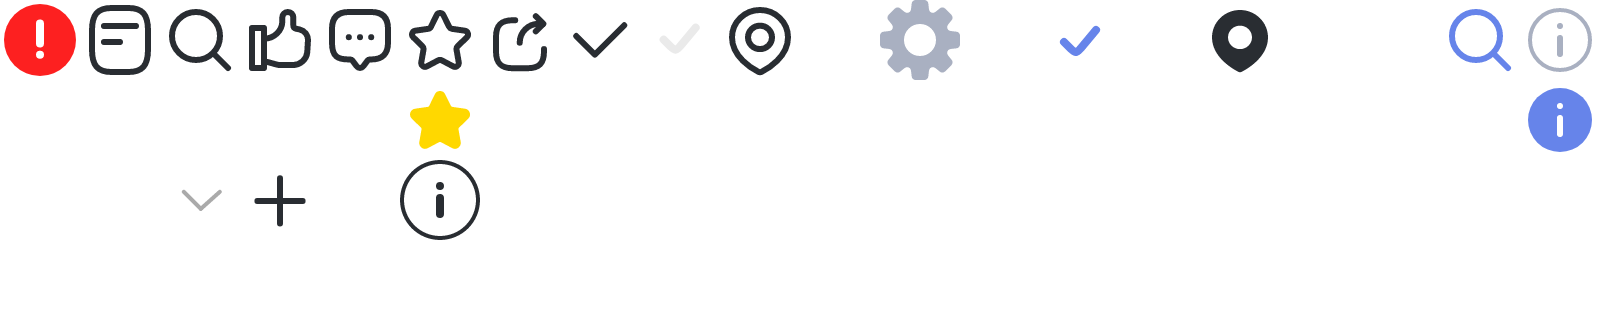
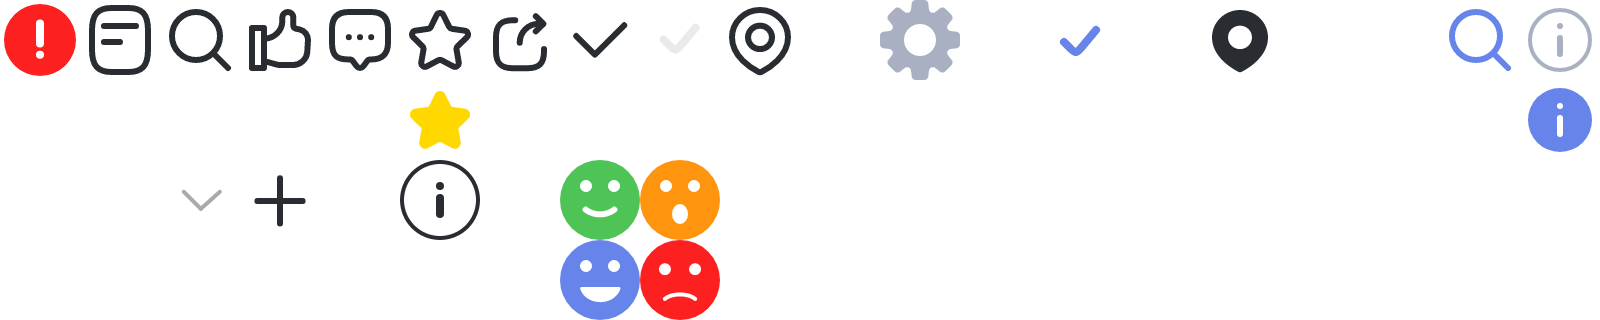
UI-SJN-35-001L, UI-SJN-35-002L 등록

Changed region(s): [[0.3438, 0.5, 0.4688, 1.0]]

diff --git a/html/map/UI-SJN-35-002L.html b/html/map/UI-SJN-35-002L.html
@@ -8,164 +8,8 @@
 <body>
 <div id="root">
 	<div class="container">
-		<!-- 공통: 서브 헤더 -->
-		<script src="../include/header_sub.js"></script>
-		<!-- //공통: 서브 헤더 -->
-
-		<!-- 본문 -->
-		<main class="contents map"> <!-- [생활정보 Class] map-->
-			<h2 class="visible"><div class="headerClone">미세먼지</div></h2> <!-- [헤더에 넣어줄 제목] -->
-			
-			<div class="mapWrap">
-				<div class="mapArea">
-					<!-- 기타 아이콘들 -->
-					<div class="mapIcons"> <!-- 주유소 콘텐츠 otherPosition 추가 -->
-						<button type="button" class="btnPin"><i>핀</i></button>
-						<button type="button" class="btnMapSearch"><i></i>현 지도에서 검색</button>
-
-						<!-- 마커 -->
-						<div class="markerMy" style="left: 20rem; top: 25rem;"> <!-- rem 단위로 넣어야 합니다. 10px = 1rem  -->
-							<div><span></span></div>
-						</div>
-						<!-- //마커 -->
-
-						<!-- 미세먼지 -->
-						<div class="fineDust">
-							<button type="button" class="fineDustIco good" style="left: 5rem; top: 15rem;" title="미세먼지 좋음" onclick="layerPopup.open('layerFineDust');"><i class="split24 dust"></i> <b>75</b><b>66</b></button>
-							<button type="button" class="fineDustIco usually" style="left: 15rem; top: 15rem;" title="미세먼지 보통" onclick="layerPopup.open('layerFineDust');"><i class="split24 dust"></i> <b>75</b><b>66</b></button>
-							<button type="button" class="fineDustIco bad" style="left: 15rem; top: 20rem;" title="미세먼지 나쁨" onclick="layerPopup.open('layerFineDust');"><i class="split24 dust"></i> <b>75</b><b>66</b></button>
-							<button type="button" class="fineDustIco veryBad" style="left: 25rem; top: 20rem;" title="미세먼지 매우나쁨" onclick="layerPopup.open('layerFineDust');"><i class="split24 dust"></i> <b>75</b><b>66</b></button>
-							<button type="button" class="fineDustIco good" style="left: 5rem; top: 25rem;" title="미세먼지 좋음" onclick="layerPopup.open('layerFineDust');"><i class="split24 government"></i> <b>75</b><b>66</b></button>
-							<button type="button" class="fineDustIco usually" style="left: 15rem; top: 25rem;" title="미세먼지 보통" onclick="layerPopup.open('layerFineDust');"><i class="split24 government"></i> <b>75</b><b>66</b></button>
-							<button type="button" class="fineDustIco bad" style="left: 15rem; top: 30rem;" title="미세먼지 나쁨" onclick="layerPopup.open('layerFineDust');"><i class="split24 government"></i> <b>75</b><b>66</b></button>
-							<button type="button" class="fineDustIco veryBad" style="left: 25rem; top: 30rem;" title="미세먼지 매우나쁨" onclick="layerPopup.open('layerFineDust');"><i class="split24 government"></i> <b>75</b><b>66</b></button>
-						</div>
-						<!-- //미세먼지 -->
-
-						<div class="btnView">
-							<button type="button" class="mapView" onclick="mapInfo.active('close');"><i></i>지도보기</button>
-							<button type="button" class="listView" onclick="mapInfo.click('sub');"><i></i>목록보기</button>
-						</div>
-
-						<div class="location">
-							<button type="button" class="myLocation"><i>현재위치</i></button> <!-- 활성화시 버튼에 active 추가 -->
-							<div class="scaleBtn">
-								<button type="button" class="scaleUp"><i>확대</i></button>
-								<button type="button" class="scaleDown"><i>축소</i></button>
-							</div>
-						</div>
-					</div>
-					<!-- //기타 아이콘들 -->
-					
-					<!-- 정보 영역 -->
-					<div class="mapInfoLayer default">
-						<div class="mapIHead short2">
-							<button type="button" class="btnMapInfo">정보영역</button>
-
-							<div class="location">
-								<i class="split20"></i>세종특별자치시 나성동
-							</div>
-						</div>
-						<div class="dustArea">
-							<section>
-								<ul class="fineDustList">
-									<li class="national">
-										<div class="title">
-											<i class="split24 logo"></i>
-											<h3>아름동 측정소 기준</h3>
-											<button type="button" class="tooltipBtn legend" title="도움말 닫힘" onclick="tooltip.show('tooltip1', 'bottom');"><i class="split20">국가망 관측소에 대한 간략 안내
-											</i></button>
-										</div>
-										<div class="infomation">
-											<span>미세먼지<b class="good">52 좋음</b></span>
-											<span>초미세먼지<b class="usually">52 보통</b></span>
-										</div>
-										<div class="offeror">
-											<span>제공 : 에어코리아 2022-01-20 12:00</span>
-										</div>
-									</li>
-									<li class="national">
-										<div class="title">
-											<i class="split24 logo"></i>
-											<h3>아름동 측정소 기준</h3>
-											<button type="button" class="tooltipBtn legend" title="도움말 닫힘" onclick="tooltip.show('tooltip1', 'bottom');"><i class="split20">국가망 관측소에 대한 간략 안내
-											</i></button>
-										</div>
-										<div class="infomation">
-											<span>미세먼지<b class="good">52 좋음</b></span>
-											<span>초미세먼지<b class="usually">52 보통</b></span>
-										</div>
-										<div class="offeror">
-											<span>제공 : 에어코리아 2022-01-20 12:00</span>
-										</div>
-									</li>
-									<li class="simple">
-										<div class="title">
-											<h3>간이형 측정기 15</h3>
-											<button type="button" class="tooltipBtn legend" title="도움말 닫힘" onclick="tooltip.show('tooltip2', 'bottom');"><i class="split20">국가망 관측소에 대한 간략 안내
-											</i></button>
-										</div>
-										<div class="address">
-											<span>보듬6로 18</span>
-										</div>
-										<div class="infomation">
-											<span>미세먼지<b class="bad">52 나쁨</b></span>
-											<span>초미세먼지<b class="veryBad">52 매우나쁨</b></span>
-										</div>
-									</li>
-									<li class="simple">
-										<div class="title">
-											<h3>간이형 측정기 15</h3>
-											<button type="button" class="tooltipBtn legend" title="도움말 닫힘" onclick="tooltip.show('tooltip2', 'top');"><i class="split20">국가망 관측소에 대한 간략 안내
-											</i></button>
-										</div>
-										<div class="address">
-											<span>보듬6로 18</span>
-										</div>
-										<div class="infomation">
-											<span>미세먼지<b class="bad">52 나쁨</b></span>
-											<span>초미세먼지<b class="veryBad">52 매우나쁨</b></span>
-										</div>
-									</li>
-								</ul>
-							</section>
-						</div>
-					</div>
-					<script>
-						mapInfo.click('sub');
-					</script>
-					<!-- //정보 영역 -->
-
-					<div class="mapBg"></div> <!-- map 이미지 -->
-				</div>
-			</div>
-		</main>
-		<!-- //본문 -->
 
 		<!-- 툴팁 -->
-		<div id="tooltip1" class="boxTooltipLayer" tabindex="0">
-			<div class="boxTooltipBody">
-				<div class="paragraphGroup">
-					<p>
-						아름동, 한솔동, 보람동, 신흥동, 부강면 각 측정소의 「대기환경보전법」에 따른 측정망의 자료를 기반합니다.<br />
-						데이터는 측정소 현지 사정이나 데이터의 수신상태에 따라 미수신 될 수 있습니다.
-					</p>
-				</div>
-				<button type="button" class="btnClose"><i>닫기</i></button>
-			</div>
-		</div>
-
-		<div id="tooltip2" class="boxTooltipLayer" tabindex="0">
-			<div class="boxTooltipBody">
-				<div class="paragraphGroup">
-					<p>
-						간이형 측정기(성능인증 1등급)를 통해 측정된 자료이며, 「대기환경보전법」에 따른 측정망의 자료와 다를 수 있습니다.
-					</p>
-				</div>
-				<button type="button" class="btnClose"><i>닫기</i></button>
-			</div>
-		</div>
-
 		<div id="tooltip3" class="dustTooltipLayer" tabindex="0">
 			<div class="legendTooltipBody">
 				<div>
@@ -379,7 +223,11 @@
 				</div>
 			</div>
 		</div>
+		<script>
+			layerPopup.open('layerFineDust');
+		</script>
 		<!-- //레이어 -->
+		
 	</div>
 </div>
 </body>

diff --git a/public/styles/globals.css b/public/styles/globals.css
@@ -156,7 +156,7 @@ table td { vertical-align: middle;}
 .ellipsis { overflow:hidden; text-overflow:ellipsis; white-space:nowrap;}
 .lineBreake { overflow: hidden; display: -webkit-box; text-overflow: ellipsis; -webkit-line-clamp: 2; -webkit-box-orient: vertical;}
 .visible { display: none;}
-.invisible { position: relative; z-index: -1; display: inline-block; overflow: hidden; height: 1px; width: 1px; border: 0; clip: rect(1px, 1px, 1px, 1px); clip-path: inset(50%); word-break: initial; word-wrap: initial;}
+.invisible { position: absolute; z-index: -1; display: inline-block; overflow: hidden; height: 1px; width: 1px; border: 0; clip: rect(1px, 1px, 1px, 1px); clip-path: inset(50%); word-break: initial; word-wrap: initial;}
 .ls0 { letter-spacing: 0;}
 
 
@@ -238,6 +238,23 @@ table td { vertical-align: middle;}
 .legendTooltipLayer .legendTooltipBody .numerical li i.veryHighness { background-color: #FD7802;}
 .legendTooltipLayer .legendTooltipBody .numerical li span { display: block; margin-top: 0.8rem; font-size: 1.4rem; font-weight: 700; color: #aaa;}
 .legendTooltipLayer.show { display: block;}
+
+.dustTooltipLayer { display: none; position: absolute; left: 0; top: 0; z-index: 301; width: 100%; padding: 0 1.2rem;}
+.dustTooltipLayer .legendTooltipBody { position: relative; padding: 1.2rem; background-color: #fff; border: 1px solid #6684EA;}
+.dustTooltipLayer .btnClose { position: absolute; right: 1.2rem; top: 2.2rem; width: 2.4rem; height: 2.4rem;}
+.dustTooltipLayer .btnClose i { display: block; width: 2.4rem; height: 2.4rem; text-indent: -9999rem; background: url(../image/common/split_48.png) no-repeat -14.4rem 0/48rem 14.4rem;}
+.dustTooltipLayer .legendTooltipBody h4 { display: flex; align-items: center; height: 4.8rem; font-size: 1.8rem;}
+.dustTooltipLayer .legendTooltipBody p { margin-top: 0.8rem; color: #555; line-height: 2rem;}
+.dustTooltipLayer .legendTooltipBody .numerical { display: flex; margin-top: 2.4rem;}
+.dustTooltipLayer .legendTooltipBody .numerical li { flex: 1;}
+.dustTooltipLayer .legendTooltipBody .numerical li ~ li { margin-left: 0.4rem;}
+.dustTooltipLayer .legendTooltipBody .numerical li i { display: block; height: 0.4rem;}
+.dustTooltipLayer .legendTooltipBody .numerical li i.usually { background-color: #6684EA;}
+.dustTooltipLayer .legendTooltipBody .numerical li i.good { background-color: #4EC457;}
+.dustTooltipLayer .legendTooltipBody .numerical li i.bed { background-color: #FEA60E;}
+.dustTooltipLayer .legendTooltipBody .numerical li i.veryBed { background-color: #FD7802;}
+.dustTooltipLayer .legendTooltipBody .numerical li span { display: block; margin-top: 0.8rem; font-size: 1.4rem;}
+.dustTooltipLayer.show { display: block;}
 
 /* 하단고정 */
 .bottomFixed { position: relative; padding-bottom: 8rem;}
@@ -660,9 +677,38 @@ figure .label.green { background-color: rgba(78, 196, 87, 0.9);}
 /* UI-SJN-35-002L */
 .locationLayer .dustTransition { padding: 1.6rem 2rem 2.4rem;}
 .locationLayer .dustTransition .graph { margin-top: 1.6rem;}
-.locationLayer .pollutant { padding: 1.6rem 2rem 2.4rem;}
-.locationLayer .nationalData { padding: 1.6rem 2rem 2.4rem;}
-.locationLayer .forecast { padding: 1.6rem 2rem 2.4rem;}
+.locationLayer .pollutant { padding: 0.2rem 2rem 2.4rem;}
+.locationLayer .pollutant .ppmList li { display: flex; align-items: center; height: 4.8rem;}
+.locationLayer .pollutant .ppmList li .name { display: flex; align-items: center; justify-content: space-between; width: 10.5rem; height: 3.2rem; margin-right: 1.2rem; padding: 0 0.8rem; background-color: #F4F5F7; border-radius: 1.6rem;}
+.locationLayer .pollutant .ppmList li .name span { font-size: 1.4rem; color: #777; letter-spacing: -0.1em;}
+.locationLayer .pollutant .ppmList li .name .legend { display: flex; align-items: center; justify-content: center; width: 2rem; height: 2rem;}
+.locationLayer .pollutant .ppmList li .name .legend i { text-indent: -9999rem; background-color: #A9B0C1; background-position: -12rem -4rem; border-radius: 50%;}
+.locationLayer .pollutant .ppmList li .ppm { flex: 1;}
+.locationLayer .pollutant .ppmList li .ppm i { margin-top: -0.4rem; vertical-align: middle;}
+.locationLayer .pollutant .ppmList li .ppm.good i { background-position: -14rem -6rem;}
+.locationLayer .pollutant .ppmList li .ppm.good span { color: #6684EA;}
+.locationLayer .pollutant .ppmList li .ppm.usually i { background-position: -14rem -4rem;}
+.locationLayer .pollutant .ppmList li .ppm.usually span { color: #4EC457;}
+.locationLayer .pollutant .ppmList li .ppm.bad i { background-position: -16rem -4rem;}
+.locationLayer .pollutant .ppmList li .ppm.bad span { color: #FF940E;}
+.locationLayer .pollutant .ppmList li .ppm.veryBad i { background-position: -16rem -6rem;}
+.locationLayer .pollutant .ppmList li .ppm.veryBad span { color: #FD2020;}
+.locationLayer .nationalData { padding: 0.2rem 2rem 2.4rem;}
+.locationLayer .nationalData .dataList { display: flex; flex-wrap: wrap; margin: -0.2rem 0 0 -0.8rem;}
+.locationLayer .nationalData .dataList button { display: flex; align-items: center; justify-content: center; height: 3.6rem; margin: 0.8rem 0 0 0.8rem; padding: 0 1rem; font-size: 1.4rem; color: #777; border: 1px solid #EAEAEA; border-radius: 1.8rem;}
+.locationLayer .nationalData .dataList button.active { color: #fff; border-color: #6684EA; background-color: #6684EA;}
+.locationLayer .forecast { padding: 0.2rem 2rem 2.4rem;}
+.locationLayer .forecast .forecastList { border-top: 1px solid #EAEAEA;}
+.locationLayer .forecast .forecastList li { padding-bottom: 1.6rem; border-bottom: 1px solid #EAEAEA;}
+.locationLayer .forecast .forecastList li .head { display: flex; align-items: center; height: 4.8rem;}
+.locationLayer .forecast .forecastList li .head span { font-size: 1.4rem;}
+.locationLayer .forecast .forecastList li .head span.today { font-weight: 700;}
+.locationLayer .forecast .forecastList li .head h4 { margin: 0 0.4rem 0 0.8rem; font-size: 1.6rem;}
+.locationLayer .forecast .forecastList li .head b { font-size: 1.4rem;}
+.locationLayer .forecast .forecastList li .head b.usually { color: #4EC457;}
+.locationLayer .forecast .forecastList li .head b.good { color: #6684EA;}
+.locationLayer .forecast .forecastList li .head b.bed { color: #FF940E;}
+.locationLayer .forecast .forecastList li .head b.veryBad { color: #FD2020;}
 
 
 /* *-모음
@@ -768,6 +814,7 @@ figure .label.green { background-color: rgba(78, 196, 87, 0.9);}
 .nav-faq li ~ li { margin-left: 0.4rem;}
 .nav-faq li button { display: block; width: 100%; height: 4rem; color: #555; border: 1px solid #EAEAEA;}
 .nav-faq li button.active { color: #fff; border-color: #6684EA; background-color: #6684EA;}
+.nav-faq li button .small { font-size: 1.2rem;}
 
 .nav_side { display: flex; align-items: center; height: 4.8rem;}
 .nav_side li { margin-right: 0.8rem;}

diff --git a/README.md b/README.md
@@ -12,6 +12,8 @@
 - UI-SJN-33-008L 등록
 - UI-SJN-34-001L 등록
 - UI-SJN-34-002L 등록
+- UI-SJN-35-001L 등록
+- UI-SJN-35-002L 등록
 
 ### 02-03
 - UI-SJN-20-001U 수정 - 햄버거 메뉴 추가
